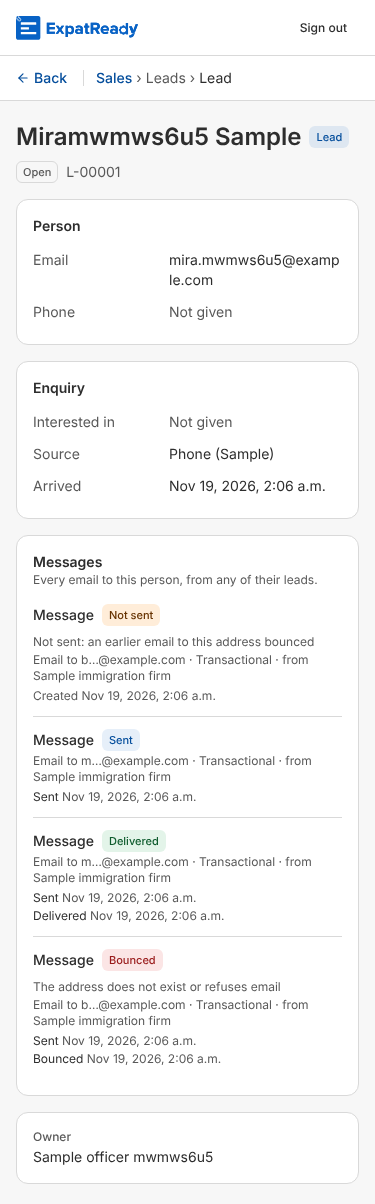
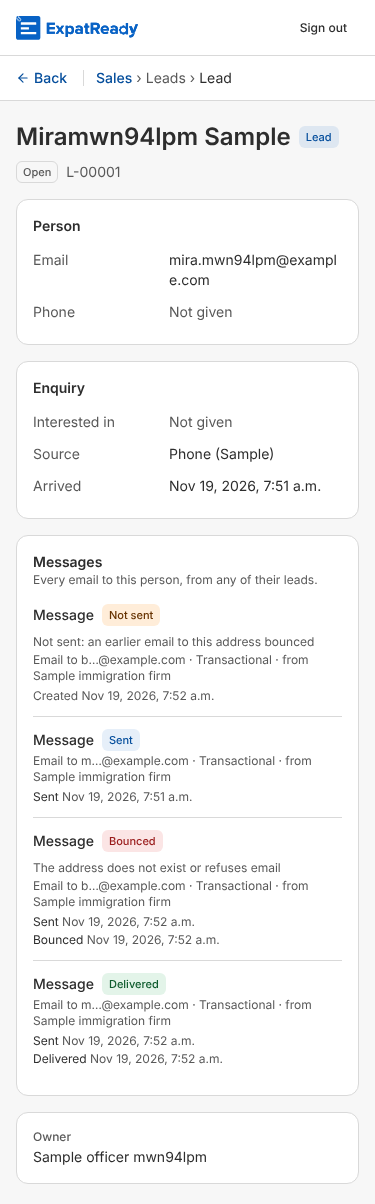
runtime: PF-19b part 3 — the panel browser suite exits 0 on all-pass, 1 on a failure (was inverted: summary() returns the failure count); screenshots from the run on the merge at 801181365; the review, break and notes records move to their own records-only PR so this PR stays under 800 changed lines
Claude-Session: https://claude.ai/code/session_01MXNda6828rmratTptyAcnL

diff --git a/ai-workers/problem-1-pathway-setup-and-form-filling/prototype/studio/tests/check_pf19b3_panel_browser.ts b/ai-workers/problem-1-pathway-setup-and-form-filling/prototype/studio/tests/check_pf19b3_panel_browser.ts
@@ -162,4 +162,4 @@ try {
 } finally {
   await browser.close(); await db.$disconnect();
 }
-process.exit(summary() ? 0 : 1);
+process.exit(summary() ? 1 : 0);
